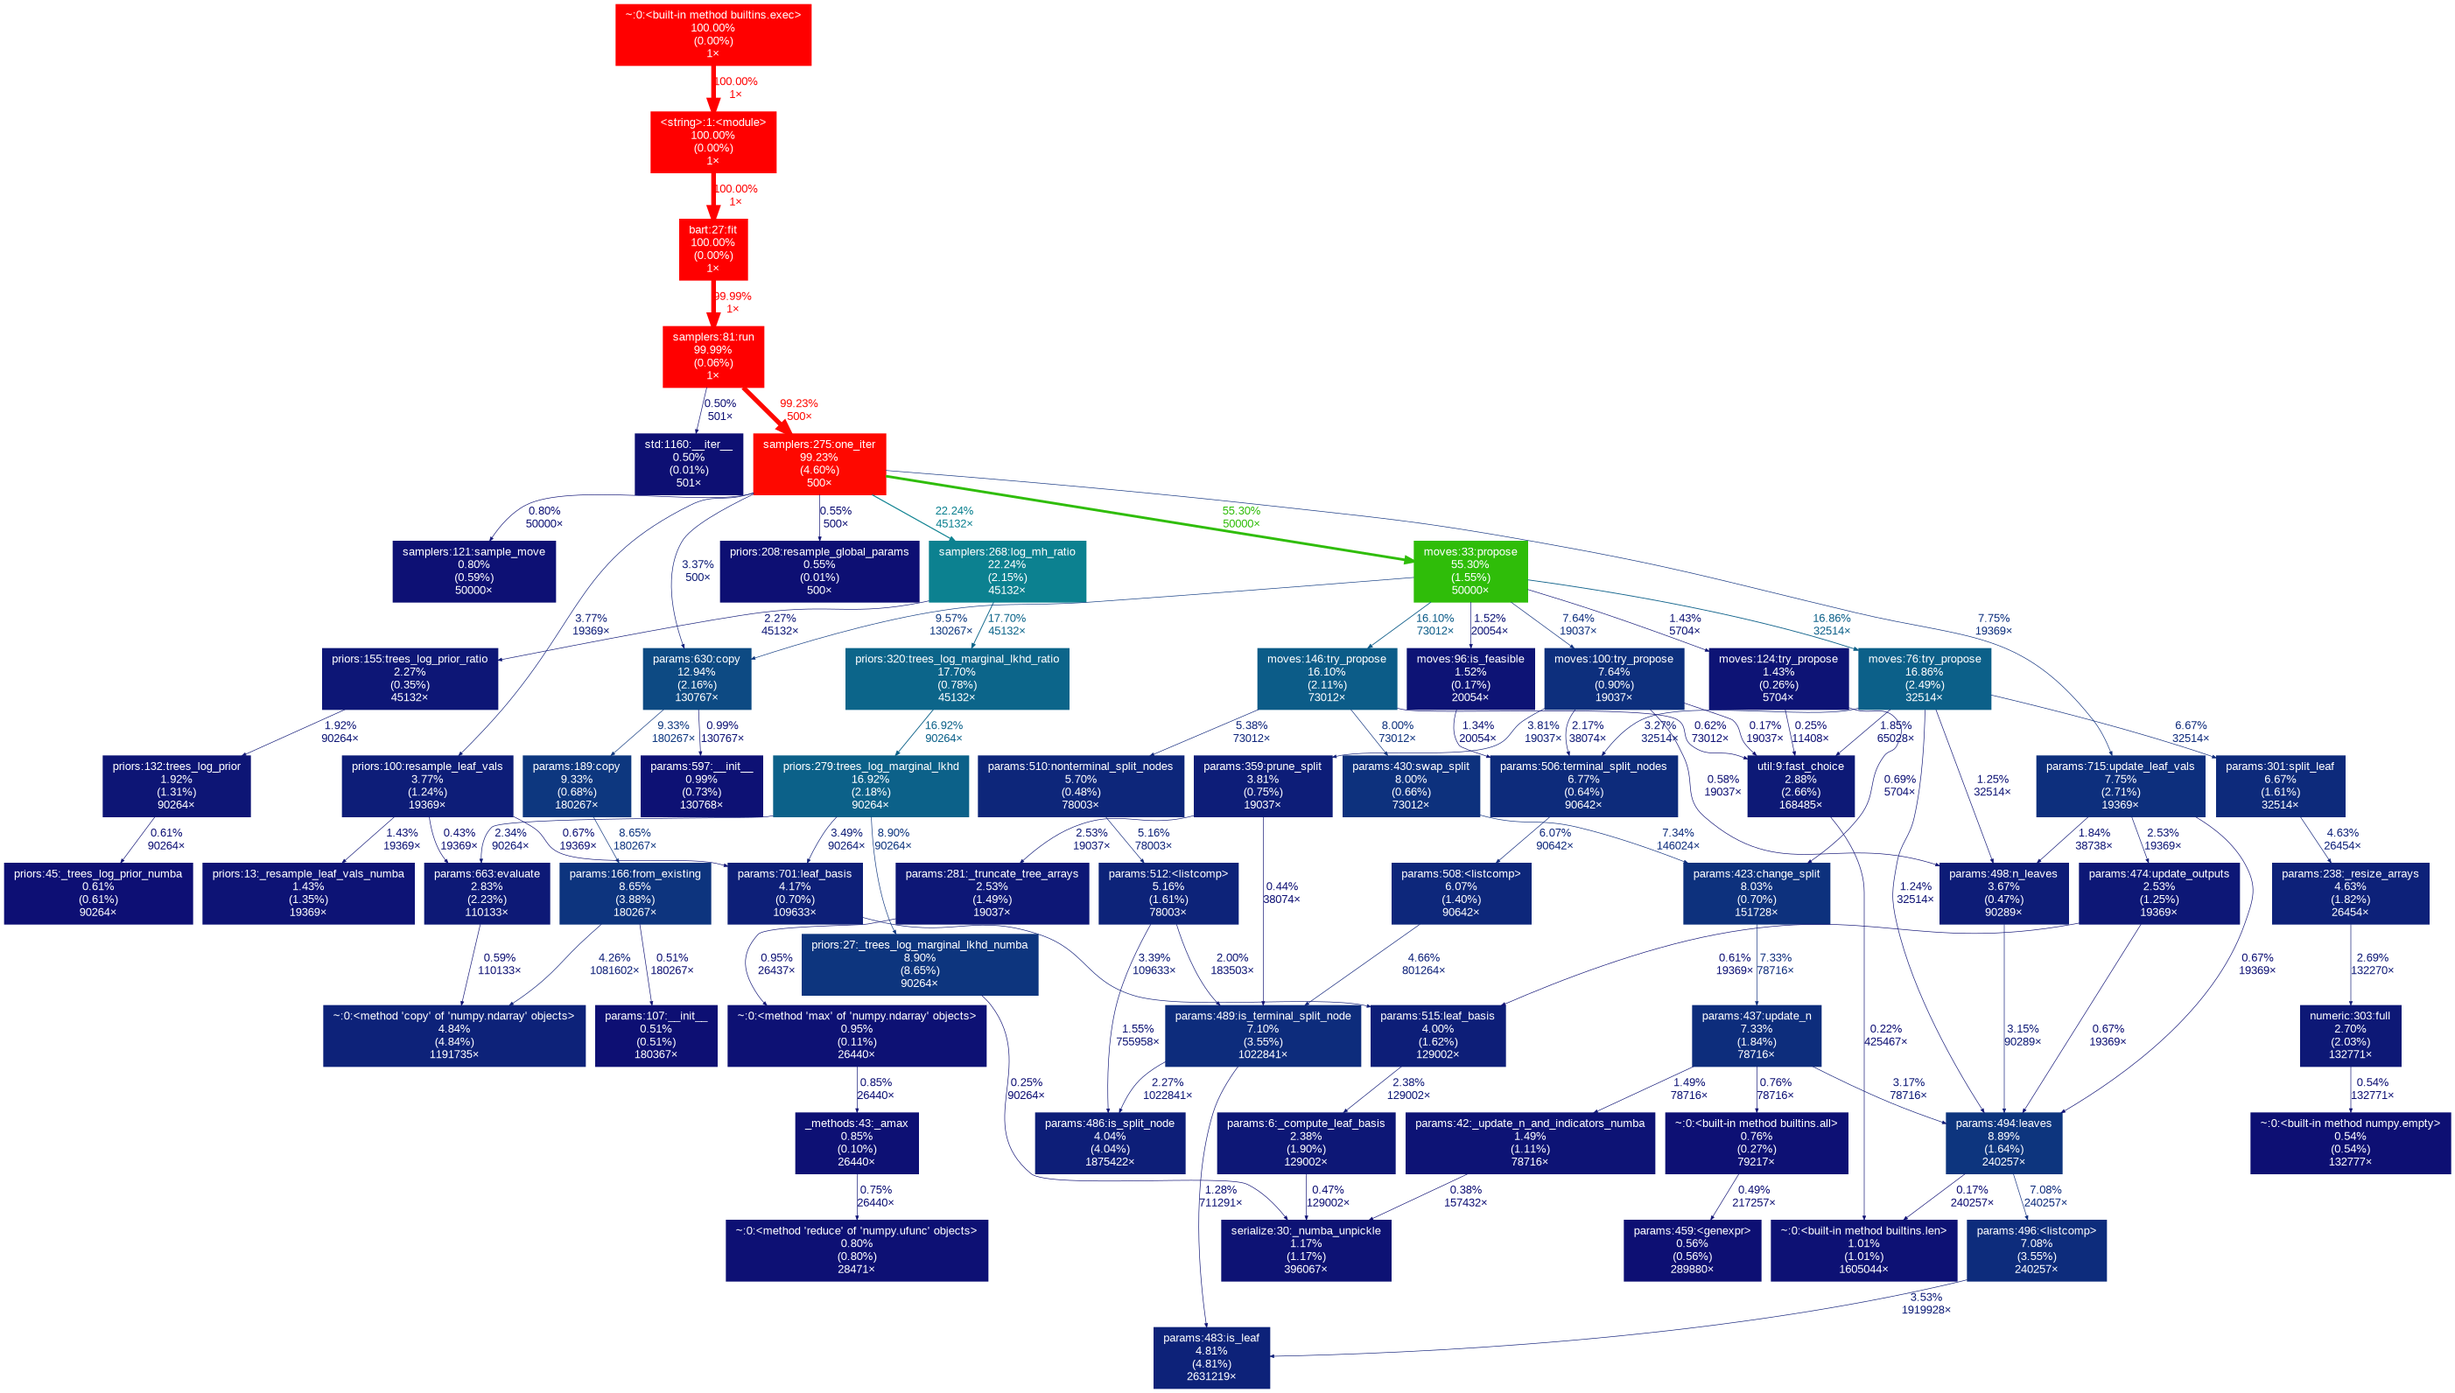
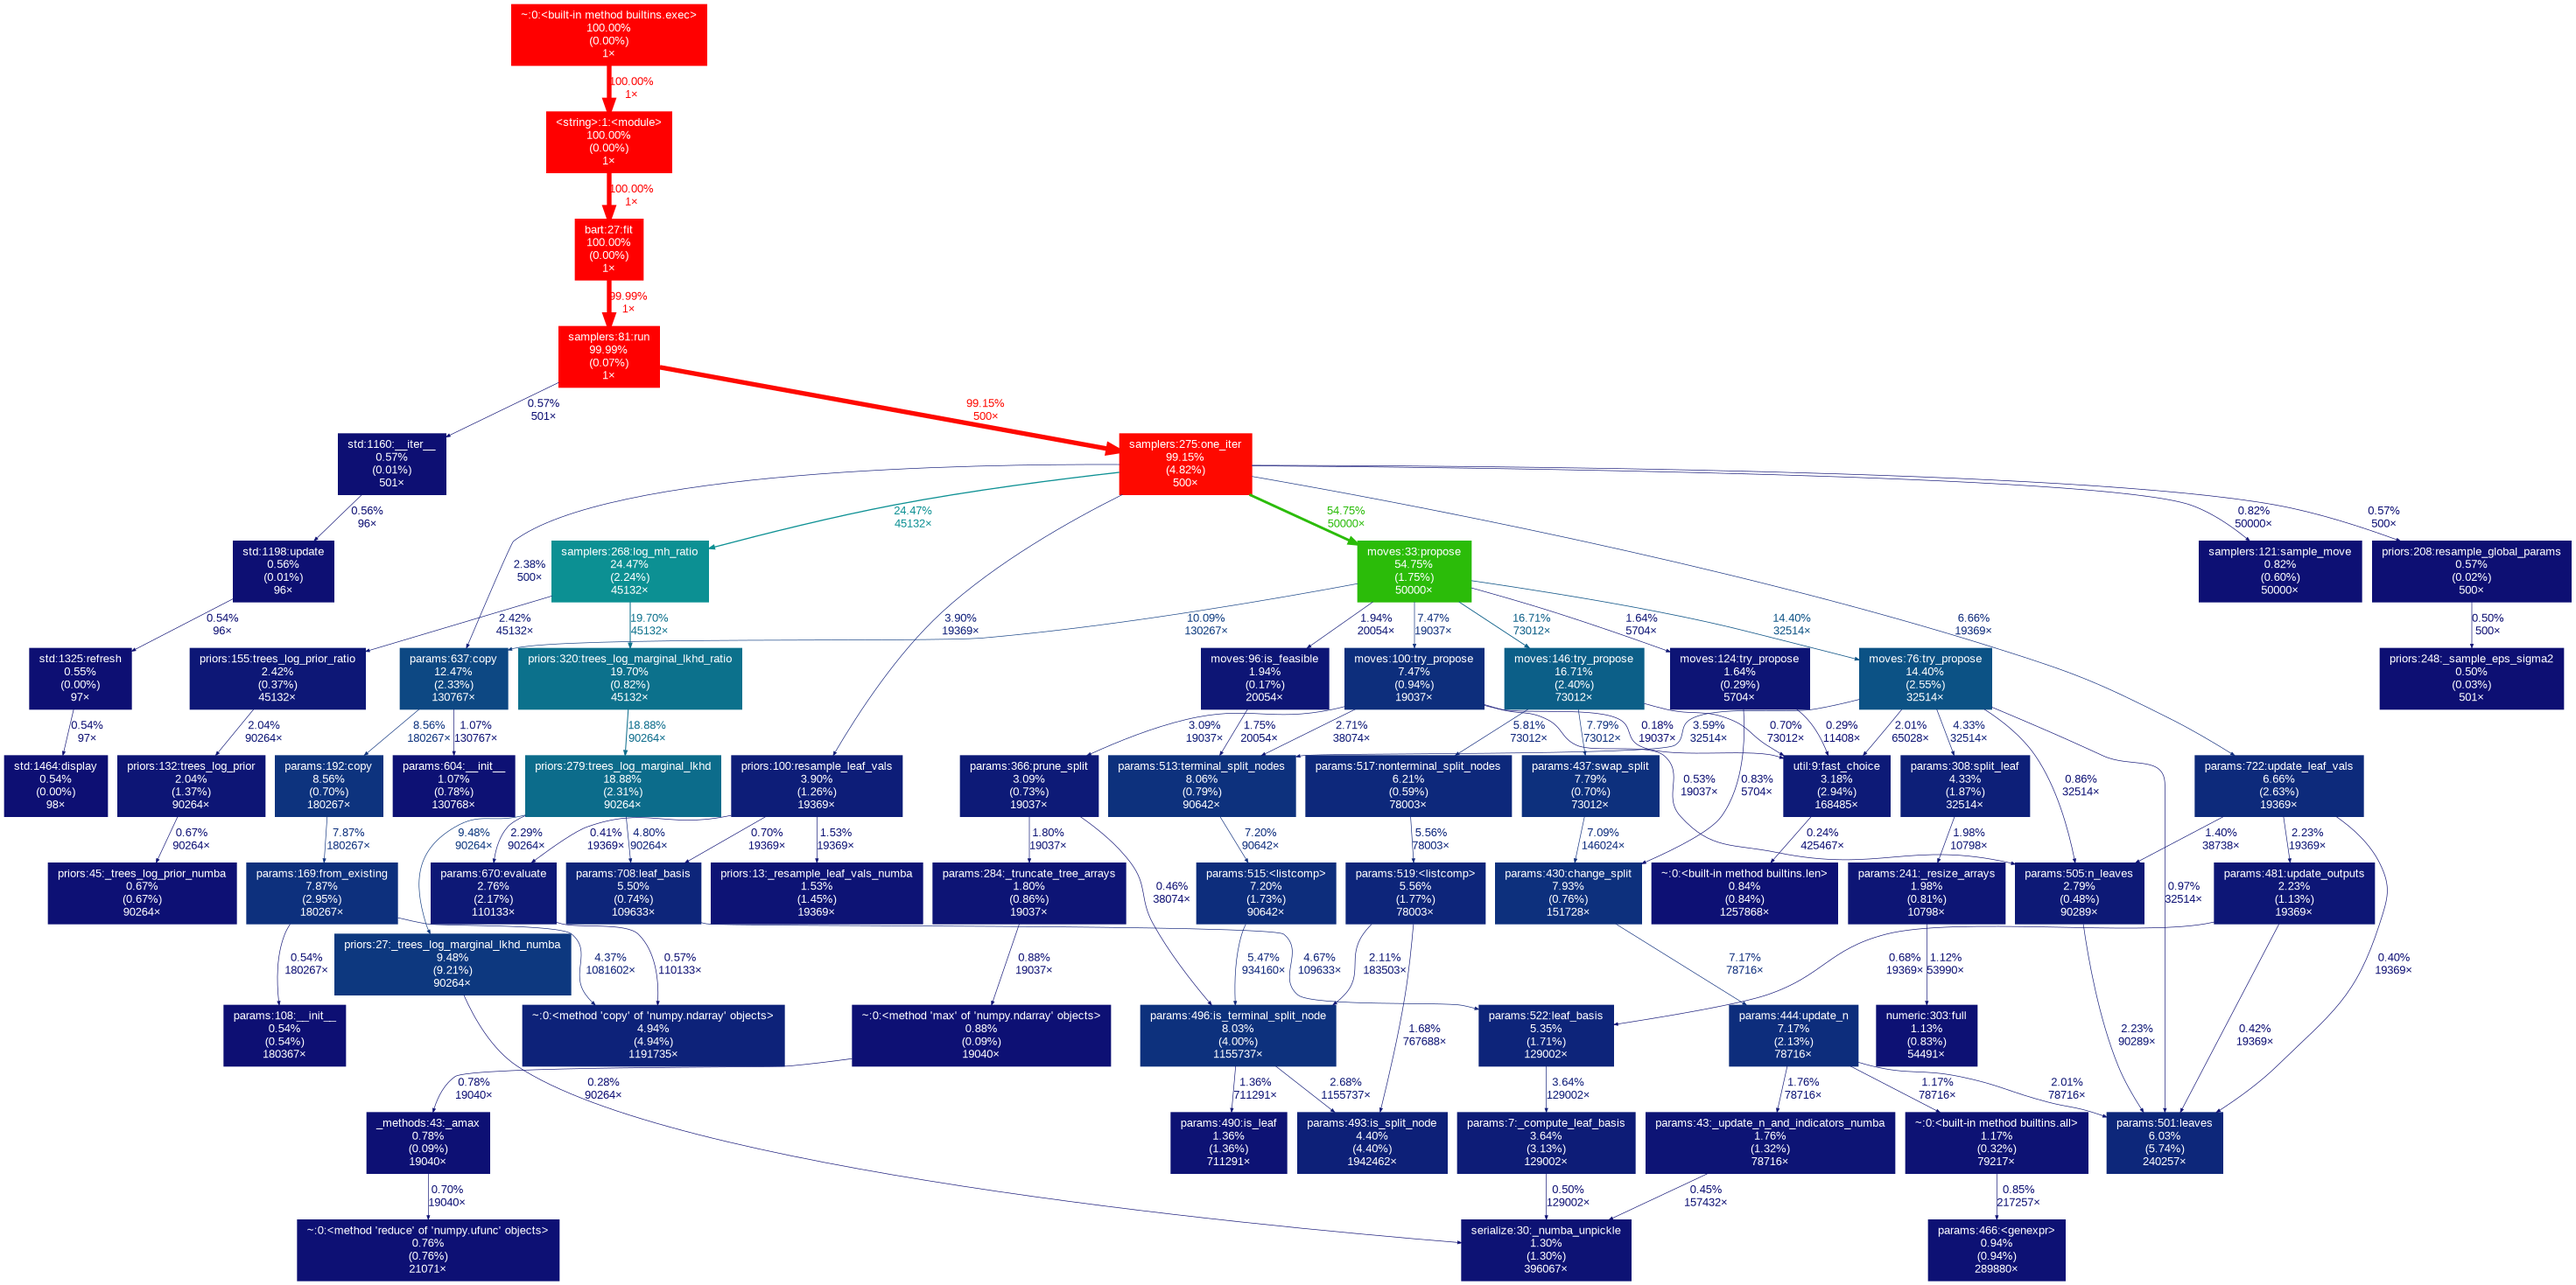
Slightly improve speed and fix bugs
1. Use np instead of listcomp in `Tree.leaves` and `Tree.split_nodes`
2. Increase `Tree.default_size`
3. Fix bugs in `Tree.update_n_append`

diff --git a/bart_playground/params.py b/bart_playground/params.py
@@ -131,15 +131,17 @@ class Tree:
         self.n = n
         self.node_indicators = node_indicators
         self.evals = evals
-
+    
+    default_size: int = 8  # Default size for the tree arrays
+    
     def _init_caching_arrays(self):
         """
         Initialize caching arrays for the tree.
         """
         assert self.dataX is not None, "Data matrix is not provided."
-        self.node_indicators = np.full((self.dataX.shape[0], 8), False, dtype=bool)
+        self.node_indicators = np.full((self.dataX.shape[0], Tree.default_size), False, dtype=bool)
         self.node_indicators[:, 0] = True
-        self.n = np.full(8, -2, dtype=int)
+        self.n = np.full(Tree.default_size, -2, dtype=int)
         self.n[0] = self.dataX.shape[0]
         self.evals = np.zeros(self.dataX.shape[0])
         
@@ -150,10 +152,10 @@ class Tree:
     @classmethod
     def new(cls, dataX=None):
         # Define the basic tree parameters.
-        vars = np.full(8, -2, dtype=int)  # -2 represents an inexistent node
+        vars = np.full(Tree.default_size, -2, dtype=int)  # -2 represents an inexistent node
         vars[0] = -1                      # -1 represents a leaf node
-        thresholds = np.full(8, np.nan, dtype=np.float32)
-        leaf_vals = np.full(8, np.nan, dtype=np.float32)
+        thresholds = np.full(Tree.default_size, np.nan, dtype=np.float32)
+        leaf_vals = np.full(Tree.default_size, np.nan, dtype=np.float32)
         leaf_vals[0] = 0                   # Initialize the leaf value
 
         new_tree = cls(dataX, vars, thresholds, leaf_vals, n = None, node_indicators = None, evals = None)
@@ -202,7 +204,7 @@ class Tree:
             Index of the leaf node.
         """
         node_ids = np.full(X.shape[0], 0, dtype=int)
-        if not self.split_nodes: # Tree has no splits
+        if len(self.split_nodes) == 0: # Tree has no splits
             return node_ids
         routing = X[:, self.vars[self.split_nodes]] > self.thresholds[self.split_nodes]
         split_node_counter = 0
@@ -287,16 +289,20 @@ class Tree:
         are truncated to half their size. The process continues until the 
         last -1 index is at least in the second half of the array. 
 
-        A minimum size of 2 is enforced to prevent excessive truncation 
+        A minimum size of Tree.default_size is enforced to prevent excessive truncation 
         that could lead to an invalid tree structure.
         """
-        while len(self.vars) > 2 and np.where(self.vars == -1)[0].max() < (half_size := len(self.vars) // 2):
-            # Truncate arrays to the first half
-            self.thresholds = self.thresholds[:half_size]
-            self.vars = self.vars[:half_size]
-            self.leaf_vals = self.leaf_vals[:half_size]
-            self.n = self.n[:half_size]
-            self.node_indicators = self.node_indicators[:, :half_size]
+        last_active_node = np.where(self.vars == -1)[0].max()
+        new_length = len(self.vars)
+        while last_active_node < (new_length // 2) and new_length > Tree.default_size:
+            new_length //= 2
+            
+        if new_length < len(self.vars):    
+            self.thresholds = self.thresholds[:new_length]
+            self.vars = self.vars[:new_length]
+            self.leaf_vals = self.leaf_vals[:new_length]
+            self.n = self.n[:new_length]
+            self.node_indicators = self.node_indicators[:, :new_length]
 
     def split_leaf(self, node_id: int, var: int, threshold: np.float32, left_val: np.float32=np.float32(np.nan), 
                    right_val: np.float32 = np.float32(np.nan)):
@@ -468,7 +474,7 @@ class Tree:
         Returns:
         """
         _update_n_and_indicators_numba(
-            0, self.dataX, True, self.vars, self.thresholds, self.n, self.node_indicators
+            0, X_new, True, self.vars, self.thresholds, self.n, self.node_indicators
         )
 
     def update_outputs(self):
@@ -493,7 +499,7 @@ class Tree:
 
     @property
     def leaves(self):
-        return [i for i in range(len(self.vars)) if self.is_leaf(i)]
+        return np.where(self.vars == -1)[0]
 
     @property
     def n_leaves(self):
@@ -501,7 +507,7 @@ class Tree:
     
     @property
     def split_nodes(self):
-        return [i for i in range(len(self.vars)) if self.is_split_node(i)]
+        return np.where((self.vars != -1) & (self.vars != -2))[0]
     
     @property
     def terminal_split_nodes(self):
@@ -584,6 +590,7 @@ class Tree:
             new_inds = np.zeros((n_new, cols), dtype=bool)
             new_inds[:, 0] = True         # i.e. all new samples start at root
             self.node_indicators = np.vstack([self.node_indicators, new_inds])
+            self.n[0] += n_new  # Update the count of samples at the root node
             
         # Refresh counts & outputs only for the affected rows
         update_range = np.arange(old_n, new_n)
